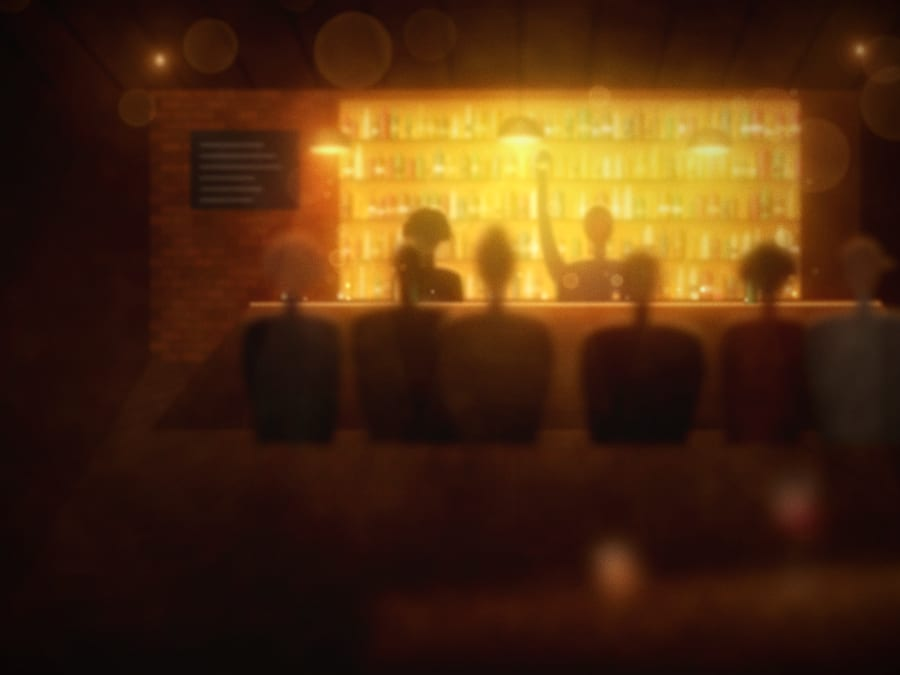
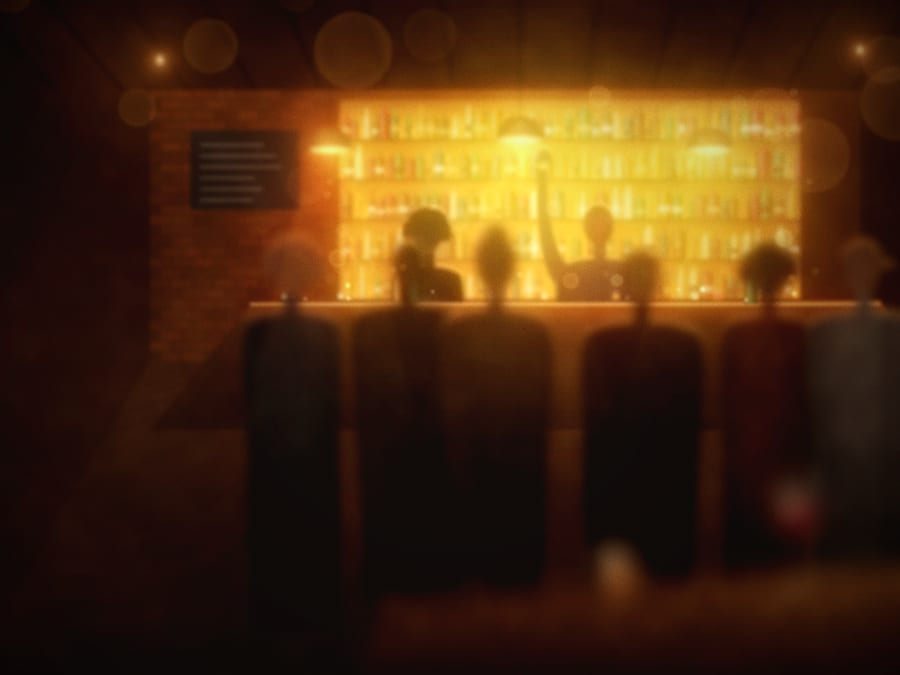
feat(pa-donde-vamos): social screens, plan flow, onboarding polish
Claude-Session: https://claude.ai/code/session_01VeshiQs7kbajqoLMa3ezra

Changed region(s): [[0.28, 0.6222, 0.7778, 0.84], [0.8089, 0.6844, 0.84, 0.7778]]

diff --git a/pa-donde-vamos/src/data/seed.ts b/pa-donde-vamos/src/data/seed.ts
@@ -93,12 +93,12 @@ export function seedNotifications(now: Date = new Date()): AppNotification[] {
 }
 
 export function seedChats(now: Date = new Date()): Record<string, ChatMessage[]> {
-  const today = (h: number, m: number) => atDay(0, h, m, now);
+  const minutesAgo = (m: number) => new Date(now.getTime() - m * 60_000).toISOString();
   return {
     luisv: [
-      { id: 'm1', from: 'luisv', text: '¿Nos vemos en el café?', at: today(9, 32) },
-      { id: 'm2', from: 'me', text: 'Sí!! 10 am?', at: today(9, 33) },
-      { id: 'm3', from: 'luisv', text: 'Perfecto', at: today(9, 34) },
+      { id: 'm1', from: 'luisv', text: '¿Nos vemos en el café?', at: minutesAgo(52) },
+      { id: 'm2', from: 'me', text: 'Sí!! 10 am?', at: minutesAgo(51) },
+      { id: 'm3', from: 'luisv', text: 'Perfecto', at: minutesAgo(50) },
     ],
     anasofi: [
       { id: 'm4', from: 'anasofi', text: 'El domingo brunch en Mamey, ¿sí o sí?', at: hoursAgo(20, now) },
